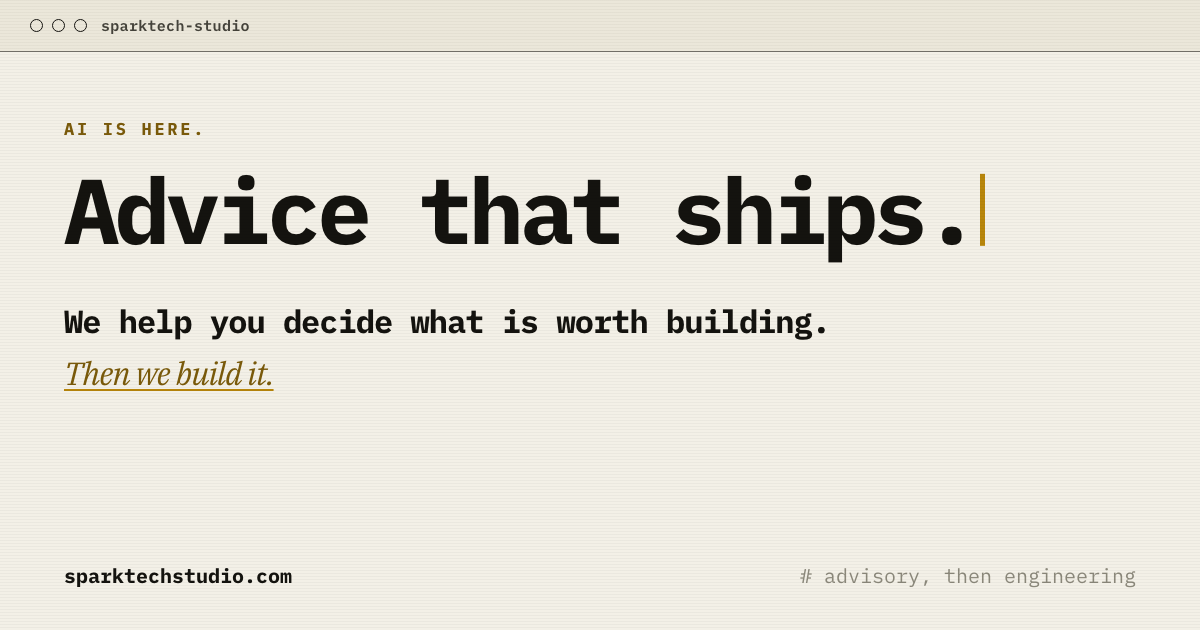
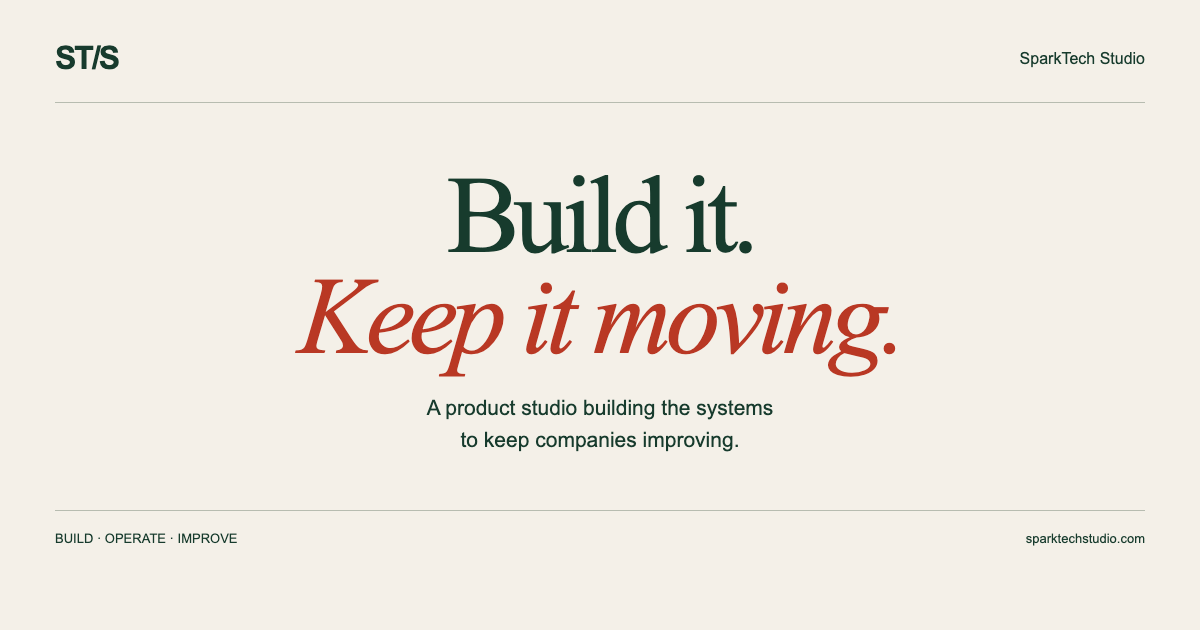
WIP: uncommitted Codex worktree changes (studio redesign, social card, brief) preserved before worktree cleanup

diff --git a/src/studio/Studio.css b/src/studio/Studio.css
@@ -1,0 +1,71 @@
+body.studio-page { background: #f4f0e8; }
+body.studio-page::before, body.studio-page::after { display: none; }
+.studio { --green: #173b2d; --cream: #f4f0e8; --coral: #b93824; --rule: #b7bcb0; color: var(--green); background: var(--cream); font-family: Arial, Helvetica, sans-serif; font-size: 16px; line-height: 1.55; }
+.studio a { color: inherit; text-decoration: none; }
+.studio button { font: inherit; }
+.studio :is(a,button,summary):focus-visible { outline: 3px solid var(--coral); outline-offset: 5px; }
+.studio :is(h1,h2,h3,p) { margin: 0; }
+.studio :is(h1,h2,h3) { font-weight: 400; }
+.studio :is(h1,h2,h3) em { color: var(--coral); font-weight: 400; }
+.studio h2 { font-family: 'Times New Roman', Times, serif; font-size: clamp(42px,5.2vw,72px); line-height: 1.02; letter-spacing: -.045em; }
+.st-wrap { width: min(1240px, calc(100% - 112px)); margin: 0 auto; }
+.st-nav { width: min(1400px,calc(100% - 72px)); margin: auto; height: 104px; display: flex; align-items: center; justify-content: space-between; border-bottom: 1px solid var(--rule); gap: 24px; }
+.st-brand { display: inline-flex; align-items: center; gap: 12px; flex-shrink: 0; }
+.st-brand img { width: 28px; height: 40px; object-fit: contain; }
+.st-brand b { font-size: 30px; letter-spacing: -2px; line-height: 1; }
+.st-brand > span { border-left: 1px solid var(--rule); padding-left: 12px; font-size: 11px; font-weight: 600; line-height: 1.3; }
+.st-nav nav { display: flex; gap: 32px; font-size: 13px; }
+.st-nav nav a:hover,.st-text-link:hover,.st-footer > a:hover { color: var(--coral); }
+.studio .st-button { display: inline-flex; justify-content: center; align-items: center; gap: 32px; border: 1px solid var(--green); border-radius: 40px; background: var(--green); color: var(--cream); padding: 15px 24px; font-size: 13px; transition: background .2s, transform .2s; }
+.studio .st-button:hover { background: var(--coral); border-color: var(--coral); transform: translateY(-2px); }
+.studio .st-nav-cta { padding: 11px 19px; }
+.st-eyebrow { font-family: 'IBM Plex Mono', monospace; font-size: 10px; text-transform: uppercase; letter-spacing: .1em; line-height: 1.6; }
+.st-hero { text-align: center; padding-top: 65px; }
+.st-hero .st-eyebrow { display: flex; align-items: center; justify-content: center; gap: 12px; }
+.st-spark { font: 25px Georgia,serif; color: var(--coral); }
+.studio h1 { font-family: 'Times New Roman', Times, serif; font-size: clamp(74px,10.7vw,154px); line-height: .89; letter-spacing: -.06em; margin: 30px 0; }
+.st-intro { max-width: 530px; margin: auto !important; font-size: 17px; line-height: 1.65; }
+.st-actions { display: flex; gap: 30px; align-items: center; justify-content: center; margin-top: 29px; }
+.st-text-link { font-size: 13px; border-bottom: 1px solid; padding-bottom: 4px; display: inline-flex; gap: 20px; align-items: center; }
+.st-hero-foot { display: flex; justify-content: space-between; border-top: 1px solid var(--rule); padding: 18px 0; margin-top: 65px; font-size: 11px; }
+.st-network { padding-top: 64px; padding-bottom: 88px; }
+.st-section-top { display: flex; justify-content: space-between; gap: 24px; align-items: center; margin-bottom: 38px; }
+.st-caption { font-size: 11px; color: #546354; }
+.st-network-head,.st-system-heading,.st-work-heading { display: grid; grid-template-columns: 1.3fr 1fr; align-items: end; gap: 90px; margin-bottom: 40px; }
+.st-network-head > p,.st-system-heading > div,.st-work-heading > p { max-width: 380px; font-size: 15px; }
+.st-machine { border: 1px solid var(--green); }
+.st-machine-core { padding: 30px; background: var(--green); color: var(--cream); }
+.st-core-title { display: flex; align-items: center; gap: 16px; }
+.st-core-title img { width: 31px; height: 44px; filter: brightness(0) invert(1); }
+.st-core-title h3 { font-family: 'Times New Roman',serif; font-size: 35px; letter-spacing: -.03em; }
+.st-core-title .st-eyebrow { color: #c2cbbd; }
+.st-status { margin-left: auto; font-family: 'IBM Plex Mono',monospace; font-size: 9px; text-transform: uppercase; letter-spacing: .08em; border: 1px solid #819685; padding: 6px 10px; border-radius: 20px; }
+.st-modules { display: grid; grid-template-columns: repeat(5,1fr); margin-top: 28px; border-top: 1px solid #597363; }
+.st-modules a { font-size: 12px; padding: 17px 12px 0; border-right: 1px solid #597363; display: flex; justify-content: space-between; gap: 10px; }
+.st-modules a:first-child { padding-left: 0; }.st-modules a:last-child { border: 0; }.st-modules a:hover { color: #ffc4ad; }
+.st-connector { display: flex; justify-content: center; gap: 40px; padding: 21px; font-family: 'IBM Plex Mono', monospace; font-size: 9px; text-transform: uppercase; letter-spacing: .05em; background: #e6e7db; border-bottom: 1px solid var(--rule); }
+.st-company-buttons { display: grid; grid-template-columns: repeat(4,1fr); }
+.st-company-buttons button { border: 0; border-right: 1px solid var(--rule); border-bottom: 1px solid var(--rule); background: transparent; color: var(--green); padding: 23px 12px; cursor: pointer; text-align: center; position: relative; }
+.st-company-buttons button:last-child { border-right: 0; }.st-company-buttons button[aria-pressed=true] { background: #e6e7db; box-shadow: inset 0 3px var(--coral); }.st-company-buttons button:hover { background: #e6e7db; }
+.st-company-buttons span { display: block; font-family: 'Times New Roman',Times,serif; font-size: 28px; letter-spacing: -.03em; }.st-company-buttons small { font-size: 10px; }
+.st-company-context { padding: 30px; display: grid; grid-template-columns: 1fr 1fr; gap: 60px; min-height: 204px; }
+.st-company-context h3 { font-family: 'Times New Roman',Times,serif; font-size: 26px; margin: 5px 0 10px; letter-spacing: -.03em; }.st-company-context p:not(.st-eyebrow) { font-size: 12px; max-width: 450px; }
+.st-context-tags { display: flex; flex-wrap: wrap; gap: 6px; padding-bottom: 19px; }.st-context-tags span { border: 1px solid var(--rule); border-radius: 20px; padding: 4px 10px; font-size: 10px; }
+.st-company-goal { border-top: 1px solid var(--rule); padding-top: 14px; }.st-company-goal span { display: block; font-family: 'IBM Plex Mono',monospace; font-size: 9px; text-transform: uppercase; margin-bottom: 6px; }
+.st-systems { padding-top: 40px; padding-bottom: 96px; border-top: 1px solid var(--green); }
+.st-note { font-size: 11px !important; line-height: 1.65; color: #546354; margin-top: 18px !important; }
+.st-system { border-top: 1px solid var(--green); scroll-margin-top: 20px; }.st-system:last-child { border-bottom: 1px solid var(--green); }
+.st-system summary { list-style: none; cursor: pointer; display: grid; grid-template-columns: 1fr 1fr 24px; gap: 20px; align-items: center; padding: 25px 0; }.st-system summary::-webkit-details-marker { display: none; }
+.st-system-name { font-family: 'Times New Roman',Times,serif; font-size: 30px; letter-spacing: -.03em; }.st-system-tag { font-family: 'IBM Plex Mono',monospace; font-size: 10px; text-transform: uppercase; letter-spacing: .05em; }.st-plus { font-size: 28px; line-height: 1; font-weight: 300; }.st-system[open] .st-plus { transform: rotate(45deg); color: var(--coral); }
+.st-system summary:hover .st-system-name { color: var(--coral); }
+.st-system-body { display: grid; grid-template-columns: 1fr 1fr; gap: 85px; padding: 8px 0 42px; }.st-system-body h3 { font-family: 'Times New Roman',Times,serif; font-size: 36px; line-height: 1.05; letter-spacing: -.03em; max-width: 400px; }.st-system-body p:not(.st-eyebrow,.st-loop-return) { font-size: 14px; max-width: 420px; margin: 18px 0 22px; }
+.st-loop { border-left: 1px solid var(--rule); padding-left: 30px; }.st-loop ol { list-style: none; margin: 15px 0 0; padding: 0; }.st-loop li { display: flex; align-items: center; gap: 14px; font-size: 12px; padding: 7px 0; }.st-loop li > span { width: 7px; height: 7px; background: var(--coral); border-radius: 50%; }.st-loop-return { font-family: 'IBM Plex Mono',monospace; font-size: 9px; margin-top: 12px !important; color: #546354; }
+.st-principle { padding: 80px 0; background: var(--green); color: var(--cream); }.st-principle .st-eyebrow { text-align: center; color: #c2cbbd; }.st-principle h2 { text-align: center; margin-top: 30px; font-size: clamp(38px,4.8vw,65px); }.st-principle h2 em { color: #eaa78b; }.st-principle-points { display: grid; grid-template-columns: repeat(3,1fr); gap: 45px; margin-top: 50px; }.st-principle-points p { font-size: 13px; border-top: 1px solid #597363; padding-top: 20px; color: #d1d8c9; }.st-principle-points strong { display: block; color: var(--cream); margin-bottom: 9px; font-weight: 500; }
+.st-work { padding-top: 84px; padding-bottom: 84px; }.st-projects { border-top: 1px solid var(--green); }.st-projects a { display: grid; grid-template-columns: .65fr 1fr 24px; gap: 28px; align-items: center; padding: 24px 0; border-bottom: 1px solid var(--rule); }.st-projects a:hover { color: var(--coral); }.st-project-name { font-family: 'Times New Roman',Times,serif; font-size: 26px; letter-spacing: -.03em; }.st-projects a > span:nth-child(2) { font-size: 12px; max-width: 540px; }.st-projects a > span:last-child { font-size: 22px; }
+.st-contact { text-align: center; padding: 75px 0 88px; border-top: 1px solid var(--green); }.st-contact h2 { margin: 25px 0; }.st-contact p:not(.st-eyebrow) { max-width: 430px; margin: 0 auto 28px; font-size: 15px; }.st-contact-email { display: block; margin-top: 20px; font-size: 11px; text-decoration: underline !important; text-underline-offset: 4px; }
+.st-footer { display: flex; justify-content: space-between; align-items: center; border-top: 1px solid var(--rule); padding: 26px 0; gap: 25px; }.st-footer > p,.st-footer > a,.st-footer > span { font-size: 10px; }.st-footer .st-brand > span { display: none; }.st-footer .st-brand b { font-size: 26px; }.st-footer .st-brand img { width: 22px; }
+.st-detail { padding: 55px 0 80px; }.st-back { font-size: 12px; display: inline-block; margin-bottom: 50px; }.st-detail h1 { font-size: clamp(55px,7vw,100px); max-width: 950px; line-height: .98; }.st-detail .st-intro { margin: 0 !important; max-width: 650px; }.st-detail-body { display: grid; grid-template-columns: 1fr 1fr; gap: 80px; padding: 45px 0; border-top: 1px solid var(--rule); margin-top: 60px; }.st-detail-body h2 { font-size: 45px; }.st-detail-body ol { padding-left: 20px; margin: 25px 0; }.st-detail-body li { padding: 9px 0; border-bottom: 1px solid var(--rule); }
+@media(prefers-reduced-motion:no-preference) { .st-reveal { opacity: 0; transform: translateY(16px); transition: opacity .6s ease,transform .6s ease; }.st-reveal.st-visible { opacity: 1; transform: none; } }
+@media(max-width:1000px) { .st-wrap { width: calc(100% - 64px); }.st-nav { width: calc(100% - 48px); }.st-nav nav { gap: 20px; }.st-brand > span { display: none; }.st-network-head,.st-system-heading,.st-work-heading { gap: 35px; }.st-company-context { gap: 25px; }.st-modules a { font-size: 10px; }.st-system-body { gap: 35px; }.st-principle-points { gap: 25px; } }
+@media(max-width:650px) { .st-wrap { width: calc(100% - 40px); }.st-nav { width: calc(100% - 40px); height: auto; min-height: 82px; flex-wrap: wrap; gap: 16px; padding: 18px 0 14px; }.st-brand b { font-size: 27px; }.st-brand img { width: 23px; height: 30px; }.st-nav nav { order: 3; width: 100%; justify-content: space-between; font-size: 11px; padding-top: 10px; border-top: 1px solid var(--rule); }.studio .st-nav-cta { font-size: 11px; padding: 9px 14px; gap: 18px; }.st-hero { padding-top: 42px; }.st-hero .st-eyebrow { font-size: 8px; gap: 8px; max-width: 270px; margin: auto; }.st-spark { flex-shrink: 0; }.studio h1 { font-size: clamp(64px,13.4vw,87px); margin: 28px 0; }.st-intro { font-size: 14px; max-width: 340px; }.st-actions { gap: 22px; flex-wrap: wrap; margin-top: 25px; }.studio .st-button { font-size: 11px; padding: 13px 19px; gap: 20px; }.st-text-link { font-size: 11px; gap: 12px; }.st-hero-foot { margin-top: 42px; gap: 20px; font-size: 9px; text-align: left; }.st-hero-foot span { max-width: 145px; }.st-hero-foot span:last-child { text-align: right; }.st-network { padding-top: 44px; padding-bottom: 55px; }.st-section-top { display: block; margin-bottom: 26px; }.st-caption { display: block; margin-top: 8px; font-size: 9px; }.st-network-head,.st-system-heading,.st-work-heading { grid-template-columns: 1fr; gap: 22px; margin-bottom: 28px; }.st-network-head > p,.st-system-heading > div,.st-work-heading > p { font-size: 13px; }.studio h2 { font-size: 43px; }.st-machine-core { padding: 21px 18px; }.st-core-title { flex-wrap: wrap; gap: 12px; }.st-core-title img { width: 23px; height: 35px; }.st-core-title h3 { font-size: 28px; }.st-core-title .st-eyebrow { font-size: 8px; }.st-status { margin-left: 35px; font-size: 8px; padding: 3px 8px; }.st-modules { grid-template-columns: 1fr; margin-top: 20px; }.st-modules a { border-right: 0; border-bottom: 1px solid #597363; padding: 9px 0; font-size: 11px; }.st-connector { gap: 15px; padding: 16px 8px; font-size: 7px; }.st-company-buttons { grid-template-columns: 1fr 1fr; }.st-company-buttons button { padding: 17px 8px; }.st-company-buttons button:nth-child(2) { border-right: 0; }.st-company-buttons span { font-size: 24px; }.st-company-buttons small { font-size: 8px; }.st-company-context { padding: 22px 18px; grid-template-columns: 1fr; gap: 20px; }.st-company-context h3 { font-size: 25px; }.st-company-context p:not(.st-eyebrow) { font-size: 11px; }.st-context-tags { padding-bottom: 12px; }.st-context-tags span { font-size: 9px; padding: 4px 8px; }.st-systems { padding-top: 30px; padding-bottom: 55px; }.st-system summary { grid-template-columns: 1fr 20px; gap: 6px; padding: 21px 0; }.st-system-name { font-size: 27px; }.st-system-tag { grid-row: 2; font-size: 8px; }.st-plus { grid-column: 2; grid-row: 1/3; }.st-system-body { grid-template-columns: 1fr; gap: 25px; padding-bottom: 30px; }.st-system-body h3 { font-size: 30px; }.st-system-body p:not(.st-eyebrow,.st-loop-return) { font-size: 13px; }.st-loop { padding-left: 18px; }.st-principle { padding: 55px 0; }.st-principle h2 { font-size: 38px; }.st-principle-points { grid-template-columns: 1fr; gap: 24px; margin-top: 30px; }.st-work { padding: 55px 0; }.st-projects a { grid-template-columns: 1fr 20px; gap: 8px 20px; padding: 20px 0; }.st-projects a > span:nth-child(2) { grid-row: 2; font-size: 11px; }.st-projects a > span:last-child { grid-column: 2; grid-row: 1/3; }.st-contact { padding: 55px 0; }.st-contact h2 { font-size: 42px; }.st-contact p:not(.st-eyebrow) { font-size: 13px; }.st-footer { display: grid; grid-template-columns: 1fr 1fr; gap: 16px; }.st-footer > p,.st-footer > a { text-align: right; }.st-footer > span { font-size: 8px; }.st-detail h1 { font-size: 60px; }.st-detail-body { grid-template-columns: 1fr; gap: 25px; margin-top: 35px; }.st-detail-body p,.st-detail-body li { font-size: 14px; } }
+@media(prefers-reduced-motion:reduce) { html { scroll-behavior: auto; }.studio * { transition: none !important; } }

diff --git a/src/studio/Studio.jsx b/src/studio/Studio.jsx
@@ -1,0 +1,74 @@
+import { useEffect, useState } from 'react'
+import { projects } from '../data/projects'
+import './Studio.css'
+
+const systems = [
+  { id: 'quality', title: 'A second set of eyes. Every release.', name: 'Quality & release', tag: 'Browser + computer use', intro: 'Agents explore the product as a user would. Every finding needs a reproduction, every fix needs a retest.', steps: ['Explore real journeys', 'Reproduce the failure', 'Send evidence to a build agent', 'Retest the fix', 'Verify the release'], detail: 'Screenshots, steps, and expected behavior travel with the bug. An implementation agent proposes a fix; the QA workflow checks the original failure and nearby journeys. Release permissions stay explicit.', output: 'Reproducible issues, reviewable fixes, release evidence.' },
+  { id: 'maintenance', title: 'Keep the everyday from becoming urgent.', name: 'Daily maintenance', tag: 'Scheduled care', intro: 'A daily pass over product health, broken journeys, dependencies, and recurring failures.', steps: ['Check health', 'Rank findings', 'Propose repairs', 'Run checks', 'Report exceptions'], detail: 'Routine checks should run on a schedule. Changes follow the company’s review rules, with an owner for exceptions and a record of what changed.', output: 'A prioritized maintenance queue and verified repairs.' },
+  { id: 'analytics', title: 'Better outcomes. Beyond more clicks.', name: 'Product learning', tag: 'Analytics + experiments', intro: 'Find where people struggle, form a useful hypothesis, and test whether a change actually helps.', steps: ['Detect friction', 'Form a hypothesis', 'Define success', 'Test a change', 'Keep or revert'], detail: 'Measure task completion, quality, retention, or another agreed outcome. Set guardrails before an experiment so extra clicks never become a substitute for user value.', output: 'Evidence for the next product decision.' },
+  { id: 'content', title: 'A consistent voice, across every channel.', name: 'Social & content', tag: 'X · TikTok · beyond', intro: 'Turn product updates and company knowledge into channel-specific drafts, ready for the right review.', steps: ['Gather source material', 'Draft for the channel', 'Check voice & claims', 'Approve publication', 'Learn from response'], detail: 'Each company supplies its own voice, accounts, and publishing permissions. The workflow can prepare X posts, TikTok scripts, and other formats; account connections and publication need separate setup.', output: 'A reviewable content queue shaped by the company’s brand.' },
+  { id: 'operations', title: 'Give repeatable work a repeatable system.', name: 'Company operations', tag: 'Connected workflows', intro: 'Bring recurring research, reporting, and administrative work into workflows with clear owners.', steps: ['Map the task', 'Connect approved tools', 'Run the workflow', 'Handle exceptions', 'Improve the process'], detail: 'Automate bounded tasks around company-specific tools and access. Route uncertain or consequential decisions to a person, with enough context to act.', output: 'Repeatable operations with a visible handoff when needed.' },
+]
+const companies = [
+  { name: 'UTern', label: 'Independent company', copy: 'Not owned by SparkTech. A potential adopter of the same systems, using its own accounts, data, and approvals.', goal: 'Help people complete a useful career journey.' },
+  { name: 'Ballot Watch', label: 'Listed studio work', copy: 'Part of the existing project roster. Shown here as a potential system connection, not a claim of a deployed integration or ownership.', goal: 'Make public information easier to understand.' },
+  { name: 'LEED', label: 'Listed as leed.media', copy: 'The existing roster calls this project LEED. A potential system connection; ownership and integration status are not established here.', goal: 'Help useful reporting signals reach journalists.' },
+  { name: 'Your company', label: 'Venture or outside team', copy: 'Adopt the capabilities that fit your product. Your company brings its own context and decides what the systems may do.', goal: 'Define the outcome that matters to your users.' },
+]
+const routeMap = { 'product-strategy': 'analytics', 'product-engineering': 'quality', 'ai-systems': 'operations', 'scale-operations': 'maintenance' }
+const email = 'mailto:contactus@sparktechstudio.com'
+
+function Arrow() { return <span aria-hidden="true">↗</span> }
+function Brand() { return <a className="st-brand" href="/" aria-label="SparkTech Studio home"><img src="/logo.svg" alt="" /><b>ST/S</b><span>SparkTech<br />Studio</span></a> }
+
+export default function Studio() {
+  const [selected, setSelected] = useState(0)
+  const slug = window.location.pathname.split('/')[2]
+  const capability = systems.find(system => system.id === (routeMap[slug] || slug))
+  useEffect(() => {
+    document.body.classList.add('studio-page')
+    document.title = capability ? `${capability.name} | SparkTech Studio` : 'SparkTech Studio | Build it. Keep it moving.'
+    const observer = new IntersectionObserver(entries => entries.forEach(entry => {
+      if (entry.isIntersecting) { entry.target.classList.add('st-visible'); observer.unobserve(entry.target) }
+    }), { threshold: 0.08 })
+    document.querySelectorAll('.st-reveal').forEach(el => observer.observe(el))
+    return () => { document.body.classList.remove('studio-page'); observer.disconnect() }
+  }, [capability])
+
+  return <div className="studio">
+    <a className="skip-link" href="#main">Skip to content</a>
+    <header className="st-nav"><Brand /><nav aria-label="Main navigation"><a href="/#systems">The systems</a><a href="/#companies">The companies</a><a href="/#work">Our work</a></nav><a className="st-button st-nav-cta" href="#contact">Let’s build <Arrow /></a></header>
+    <main id="main">
+      {capability ? <section className="st-detail st-wrap"><a className="st-back" href="/#systems">← All systems</a><p className="st-eyebrow">{capability.name} / Planned capability</p><h1>{capability.title}</h1><p className="st-intro">{capability.intro}</p><div className="st-detail-body"><h2>How it would work.</h2><div><p>{capability.detail}</p><ol>{capability.steps.map(step => <li key={step}>{step}</li>)}</ol><p><strong>The output:</strong> {capability.output}</p></div></div><p className="st-note">This describes the system we intend to build. Availability and company connections are confirmed during scoping.</p></section> : <>
+        <section className="st-hero st-wrap">
+          <p className="st-eyebrow"><span className="st-spark">✳</span> An incubator. A product studio. A long-term operator.</p>
+          <h1>Build it.<br /><em>Keep it moving.</em></h1>
+          <p className="st-intro">We build websites and products, then build the systems to keep them improving. One studio. Shared capabilities. Each company’s own direction.</p>
+          <div className="st-actions"><a className="st-button" href="#systems">Explore the systems <span aria-hidden="true">↓</span></a><a className="st-text-link" href="#contact">Bring us an idea <Arrow /></a></div>
+          <div className="st-hero-foot"><span>From the first spark to the everyday work.</span><span>Built with AI. Directed by people.</span></div>
+        </section>
+
+        <section className="st-network st-wrap st-reveal" id="companies">
+          <div className="st-section-top"><p className="st-eyebrow">The operating model</p><p className="st-caption">Proposed architecture / illustrative connections</p></div>
+          <div className="st-network-head"><h2>Different companies.<br /><em>Common machinery.</em></h2><p>SparkTech is building a reusable layer of agentic systems. Our ventures and independent companies can adopt the same capabilities without sharing their company context.</p></div>
+          <div className="st-machine">
+            <div className="st-machine-core"><div className="st-core-title"><img src="/logo.svg" alt="" /><div><span className="st-eyebrow">SparkTech-owned systems</span><h3>The shared engine</h3></div><span className="st-status">Planned library</span></div><div className="st-modules">{systems.map(s => <a key={s.id} href={`#${s.id}`}>{s.name}<span aria-hidden="true">↘</span></a>)}</div></div>
+            <div className="st-connector" aria-hidden="true"><span>Shared capabilities ↓</span><span>Company context ↑</span></div>
+            <div className="st-company-buttons" aria-label="Explore a company connection">{companies.map((company, index) => <button key={company.name} aria-pressed={selected === index} onClick={() => setSelected(index)}><span>{company.name}</span><small>{index === 0 ? 'Independent' : index === 3 ? 'Open to outside teams' : 'Existing project roster'}</small></button>)}</div>
+            <div className="st-company-context" aria-live="polite"><div><p className="st-eyebrow">{companies[selected].label}</p><h3>{companies[selected].name} brings the context.</h3><p>{companies[selected].copy}</p></div><div><div className="st-context-tags"><span>Data</span><span>Credentials</span><span>Brand</span><span>Goals</span><span>Permissions</span></div><p className="st-company-goal"><span>Illustrative goal</span>{companies[selected].goal}</p></div></div>
+          </div>
+        </section>
+
+        <section className="st-systems st-wrap" id="systems"><div className="st-section-top"><p className="st-eyebrow">The system library</p><span className="st-caption">Designed to be reused. Configured for each company.</span></div><div className="st-system-heading st-reveal"><h2>The work after<br /><em>“it’s live.”</em></h2><div><p>Quality, maintenance, learning, content, operations. The recurring work becomes the system.</p><p className="st-note">Planned capabilities. This is the direction we’re building toward, not a live service dashboard.</p></div></div>
+          <div className="st-system-list">{systems.map((system, index) => <details className="st-system" id={system.id} key={system.id} open={index === 0 ? true : undefined}><summary><span className="st-system-name">{system.name}</span><span className="st-system-tag">{system.tag}</span><span className="st-plus" aria-hidden="true">+</span></summary><div className="st-system-body"><div><h3>{system.title}</h3><p>{system.intro}</p><a className="st-text-link" href={`/capabilities/${system.id}`}>Inside this system <Arrow /></a></div><div className="st-loop"><p className="st-eyebrow">The intended loop</p><ol>{system.steps.map(step => <li key={step}><span aria-hidden="true" />{step}</li>)}</ol><p className="st-loop-return">↳ Evidence feeds the next pass</p></div></div></details>)}</div>
+        </section>
+
+        <section className="st-principle"><div className="st-wrap st-reveal"><p className="st-eyebrow">Our approach</p><h2>Automate the repetition.<br /><em>Stay accountable for the result.</em></h2><div className="st-principle-points"><p><strong>Build with a reason.</strong> Start with a useful product and a clear outcome, then put the automation around it.</p><p><strong>Give agents boundaries.</strong> Each company decides access, approvals, publishing, and release permissions.</p><p><strong>Close the loop.</strong> A proposed fix is not a verified fix. A busy dashboard is not a better product.</p></div></div></section>
+
+        <section className="st-work st-wrap st-reveal" id="work"><div className="st-section-top"><p className="st-eyebrow">The project roster</p><span className="st-caption">Products before promises.</span></div><div className="st-work-heading"><h2>Ideas with<br /><em>a place in the world.</em></h2><p>Selected work from the studio’s existing roster. Inclusion does not imply ownership or an active connection to the new systems.</p></div><div className="st-projects">{projects.map(project => <a href={project.url} key={project.key} target="_blank" rel="noreferrer"><span className="st-project-name">{project.name}</span><span>{project.desc}</span><Arrow /></a>)}</div></section>
+      </>}
+      <section className="st-contact st-wrap" id="contact"><p className="st-eyebrow">Build with SparkTech</p><h2>A new idea?<br /><em>A product that needs more?</em></h2><p>Let’s talk about what to build, what to automate, and where people should stay in the loop.</p><a className="st-button" href={email}>Talk to the studio <Arrow /></a><a className="st-contact-email" href={email}>contactus@sparktechstudio.com</a></section>
+    </main>
+    <footer className="st-footer st-wrap"><Brand /><p>Build. Operate. Improve.</p><span>© {new Date().getFullYear()} SparkTech Studios, LLC</span><a href="#main">Back to top ↑</a></footer>
+  </div>
+}

diff --git a/index.html b/index.html
@@ -6,18 +6,18 @@
     <link rel="apple-touch-icon" href="/apple-touch-icon.png?v=4" />
     <meta name="viewport" content="width=device-width, initial-scale=1.0" />
     <meta name="theme-color" content="#f4f0e8" />
-    <title>SparkTech Studio</title>
-    <meta name="description" content="Advice that ships. An advisory studio that helps you decide what is worth building, then builds and scales it. Judgment first, engineering second." />
+    <title>SparkTech Studio | Build it. Keep it moving.</title>
+    <meta name="description" content="SparkTech builds websites and products, and reusable agentic systems to keep them improving. An incubator, product studio, and long-term operator." />
     <link rel="canonical" href="https://www.sparktechstudio.com/" />
     <meta property="og:type" content="website" />
     <meta property="og:site_name" content="SparkTech Studio" />
-    <meta property="og:title" content="SparkTech Studio: advice that ships" />
-    <meta property="og:description" content="Building got cheap. Deciding what to build did not. We help you decide what is worth building, then we build and scale it." />
+    <meta property="og:title" content="SparkTech Studio: Build it. Keep it moving." />
+    <meta property="og:description" content="One studio. Shared capabilities. Each company’s own direction. Explore our plans for quality, maintenance, product learning, content, and operations." />
     <meta property="og:url" content="https://www.sparktechstudio.com/" />
     <!-- The ?v= suffix busts the social caches, which key on the image URL and
          would otherwise keep serving the old card indefinitely. Bump it any
          time og.png is regenerated. -->
-    <meta property="og:image" content="https://www.sparktechstudio.com/og.png?v=3" />
+    <meta property="og:image" content="https://www.sparktechstudio.com/og.png?v=4" />
     <meta property="og:image:width" content="1200" />
     <meta property="og:image:height" content="630" />
     <meta name="twitter:card" content="summary_large_image" />

diff --git a/assets/social-card.html b/assets/social-card.html
@@ -1,0 +1,1 @@
+<!doctype html><html><head><meta charset="utf-8"><style>*{box-sizing:border-box}body{margin:0;background:#f4f0e8;color:#173b2d;width:1200px;height:630px;padding:40px 55px;font-family:Arial,sans-serif}header{display:flex;justify-content:space-between;align-items:center;border-bottom:1px solid #b7bcb0;padding-bottom:25px;font-size:16px}b{font-size:32px;letter-spacing:-2px}h1{font:110px/.92 'Times New Roman',serif;letter-spacing:-6px;text-align:center;margin:62px 0 25px}em{color:#b93824}p{text-align:center;font-size:21px;line-height:1.5}footer{margin-top:55px;border-top:1px solid #b7bcb0;padding-top:20px;display:flex;justify-content:space-between;font-size:13px}</style></head><body><header><b>ST/S</b><span>SparkTech Studio</span></header><h1>Build it.<br><em>Keep it moving.</em></h1><p>A product studio building the systems<br>to keep companies improving.</p><footer><span>BUILD · OPERATE · IMPROVE</span><span>sparktechstudio.com</span></footer></body></html>

diff --git a/src/main.jsx b/src/main.jsx
@@ -1,8 +1,9 @@
 import { lazy, StrictMode, Suspense } from 'react'
 import { createRoot } from 'react-dom/client'
 import './index.css'
-import App from './App.jsx'
+const App = lazy(() => import('./App.jsx'))
 
+const Studio = lazy(() => import('./studio/Studio.jsx'))
 const MockupLab = lazy(() => import('./mockups/MockupLab.jsx'))
 const isStudioPath = window.location.pathname === '/'
   || window.location.pathname.startsWith('/capabilities/')
@@ -12,10 +13,10 @@ createRoot(document.getElementById('root')).render(
   <StrictMode>
     {isStudioPath ? (
       <Suspense fallback={null}>
-        <MockupLab />
+        {window.location.pathname.startsWith('/mockups') ? <MockupLab /> : <Studio />}
       </Suspense>
     ) : (
-      <App />
+      <Suspense fallback={null}><App /></Suspense>
     )}
   </StrictMode>,
 )

diff --git a/briefs/2026-09-studio-redesign.md b/briefs/2026-09-studio-redesign.md
@@ -1,0 +1,48 @@
+# SparkTech operating studio redesign
+
+Implemented in `src/studio/Studio.jsx` and `Studio.css`. Production homepage and
+capability paths use this component; historical mockups and the legacy fallback
+are retained and loaded separately. No deployment or operational integrations
+were performed.
+
+## Content decisions
+
+- Lead: “Build it. Keep it moving.” Incubator, product creator, ongoing operator.
+- Keep the approved Practice Notes cream/green/coral style and singular brand.
+- Five planned workflows: quality/release, maintenance, product learning,
+  social/content, and company operations. These are descriptions, not live agents.
+- Interactive architecture diagram separates reusable systems from company data,
+  credentials, brand, goals, and permissions. Connections are illustrative.
+- UTern explicitly remains independent and is not owned by SparkTech.
+- Existing source roster says `leed.media` / LEED; the verbal brief says LEAD.
+  Retained the established name. No ownership or active-integration claim for
+  LEED, Ballot Watch, or any other listed project.
+- Existing project descriptions and outbound URLs are reused unchanged. Their
+  live availability was not independently audited in this website redesign.
+- Updated metadata, social card, and source guidance to match the new direction.
+
+## Verification
+
+- `npm run build`: pass.
+- `npm run lint`: pass.
+- `git diff --check`: pass.
+- Browser widths 320, 375, 768, and 1440: no horizontal page overflow.
+- Visually inspected desktop hero and architecture diagram, mobile homepage,
+  mobile product-learning detail, and 1200×630 social image.
+- Company selector changes the context panel and pressed state.
+- Product-learning disclosure opens; its detail link loads the correct page.
+- Maintenance disclosure opens from keyboard Enter on the focused summary.
+- Existing `/capabilities/product-engineering` resolves to quality/release.
+- Homepage local anchors resolve and logo images load.
+- Fresh homepage and capability navigation: no console errors. A development HMR
+  warning while editing the root entry was absent after a clean navigation.
+- Fixed legacy global `nav` styling by loading legacy App assets only on its route.
+
+## Preview
+
+`npm run dev -- --host 127.0.0.1 --port 5173`
+
+Local preview: http://127.0.0.1:5173/
+
+Social-card source: `assets/social-card.html`; output: `public/og.png`.
+No public deployment was requested or made.

diff --git a/CLAUDE.md b/CLAUDE.md
@@ -1,5 +1,29 @@
 # SparkTech Studios
 
+## Current positioning (September 2026)
+
+This section supersedes the historical advisory-first framing below.
+SparkTech Studio is becoming an incubator, website/product creator, and long-term
+operator with reusable agentic automation systems. Lead with building products
+and continuously improving them. Shared capabilities include browser/computer-use
+QA with reproduction, implementation handoff, retesting and release verification;
+daily maintenance; outcome-driven analytics and experiments; social/content
+workflows; and broader operations. Describe these as planned until deployment is
+verified. Do not invent integrations, customers, metrics or full autonomy.
+
+SparkTech owns the reusable system layer in this intended model. Each adopting
+company supplies separate data, credentials, brand, goals and permissions. UTern
+is independent and explicitly NOT owned by SparkTech. The roster lists Ballot
+Watch and `leed.media` (LEED, called LEAD in the new verbal brief); it does not
+establish their ownership or system integration status. Do not infer either.
+
+Production `/` and `/capabilities/*` now render `src/studio/Studio.jsx`, styled by
+`src/studio/Studio.css`. `src/data/projects.js` remains the work roster. The old
+capability URLs map to the corresponding new systems. `/mockups` preserves the
+historical concept lab. Keep the cream/green/coral Practice Notes visual language,
+singular public brand, text-only work list, concise copy, and no video hero.
+
+
 ## Mission
 
 SparkTech Studios exists to build the crazy ideas that people think can't be done. We take unique, ambitious concepts and turn them into real products, fast and efficiently. The whole point is: you have a wild idea, we make it real.

diff --git a/DESIGN.md b/DESIGN.md
@@ -1,5 +1,14 @@
 # Design System — SparkTech Studios
 
+## September 2026 evolution
+
+The production site now lives in `src/studio/`, retaining Practice Notes cream,
+green, editorial serif, mono labels, rules, and pill CTAs. The new theme is
+**Build it. Keep it moving.** A shared-system diagram, company selector and
+expandable workflow rows explain the proposed operating model. Coral text uses
+`#b93824` for contrast on cream; dark-green sections use pale coral `#eaa78b`.
+System status is explicitly planned. No simulated live metrics or activity.
+
 ## Current Production Direction
 
 As of 2026-07-30, the live site uses the approved **Practice Notes / Concept D**
